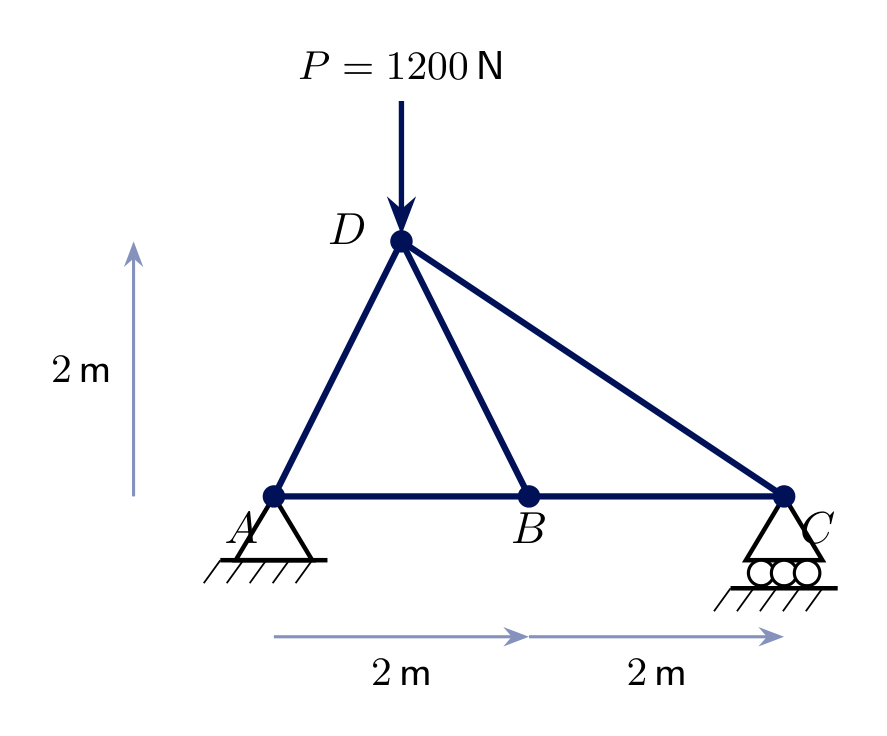
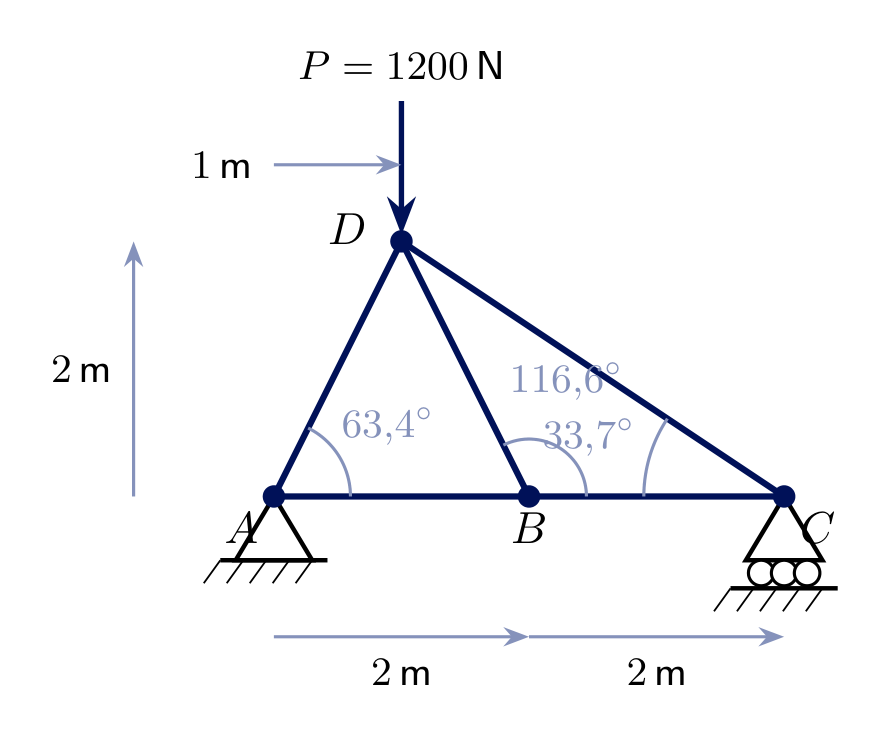
update pcitures

diff --git a/Engineering_Mechanics/e_06/assets/em_s06_figs.tex b/Engineering_Mechanics/e_06/assets/em_s06_figs.tex
@@ -74,6 +74,10 @@
 \node[below] at (6,-1.95) {\small $4\,\text{m}$};
 \draw[dim] (-1.1,0) -- (-1.1,2);
 \node[left] at (-1.15,1) {\small $2\,\text{m}$};
+\draw[accent, line width=0.7pt] ($(0,0)+(0:0.7)$) arc (0:45:0.7);
+\node[accent] at ($(0,0)+(22.5:1.15)$) {\small $45^\circ$};
+\draw[accent, line width=0.7pt] ($(4,0)+(135:0.7)$) arc (135:180:0.7);
+\node[accent] at ($(4,0)+(157.5:1.15)$) {\small $45^\circ$};
 \end{tikzpicture}
 
 % ================= Ex 6.1 FBD: right portion (D, E) =================
@@ -107,6 +111,10 @@
 \node[below] at (2,-1.95) {\small $4\,\text{m}$};
 \draw[dim] (4,-1.9) -- (8,-1.9);
 \node[below] at (6,-1.95) {\small $4\,\text{m}$};
+\draw[accent, line width=0.7pt] ($(0,0)+(0:0.7)$) arc (0:45:0.7);
+\node[accent] at ($(0,0)+(22.5:1.15)$) {\small $45^\circ$};
+\draw[accent, line width=0.7pt] ($(4,0)+(135:0.7)$) arc (135:180:0.7);
+\node[accent] at ($(4,0)+(157.5:1.15)$) {\small $45^\circ$};
 \end{tikzpicture}
 
 % ================= Ex 6.2 FBD: left portion (A, B) =================
@@ -192,6 +200,10 @@
 \node[above] at (3,3.05) {\small $2\,\text{m}$};
 \draw[dim] (4.9,0) -- (4.9,2);
 \node[right] at (4.95,1) {\small $2\,\text{m}$};
+\draw[accent, line width=0.7pt] ($(4,0)+(135:0.7)$) arc (135:180:0.7);
+\node[accent] at ($(4,0)+(157.5:1.15)$) {\small $45^\circ$};
+\draw[accent, line width=0.7pt] ($(0,0)+(0:0.7)$) arc (0:45:0.7);
+\node[accent] at ($(0,0)+(22.5:1.15)$) {\small $45^\circ$};
 \end{tikzpicture}
 
 % ================= Ex 6.4 check: Ritterschnitt, right portion (C, D, E) =================
@@ -248,6 +260,10 @@
 \foreach \x in {0,3,6,9} {\draw[dim] (\x,-2.6) -- (\x+3,-2.6); \node[below] at (\x+1.5,-2.65) {\small $3\,\text{m}$};}
 \draw[dim] (-1.3,0) -- (-1.3,4);
 \node[left] at (-1.35,2) {\small $4\,\text{m}$};
+\draw[accent, line width=0.7pt] ($(0,0)+(0:0.9)$) arc (0:53.13:0.9);
+\node[accent] at ($(0,0)+(26.565:1.9)$) {\small $\alpha = 53{,}1^\circ$};
+\draw[accent, line width=0.7pt] ($(6,0)+(126.87:0.9)$) arc (126.87:180:0.9);
+\node[accent] at ($(6,0)+(153.435:1.35)$) {\small $\alpha$};
 \end{tikzpicture}
 
 % ================= Ex 6.5 FBD: left portion (A, B, F), cut in panel B-C =================

diff --git a/Engineering_Mechanics/e_05/assets/em_s05_figs.tex b/Engineering_Mechanics/e_05/assets/em_s05_figs.tex
@@ -99,6 +99,10 @@
 \node[below] at (3,-1.35) {\small $2\,\text{m}$};
 \draw[dim] (-1.1,0) -- (-1.1,3);
 \node[left] at (-1.15,1.5) {\small $3\,\text{m}$};
+\draw[dim,-] ($(A)+(0:0.8)$) arc (0:56.31:0.8);
+\node[accent] at ($(A)+(28.155:1.25)$) {\small $56{,}3^\circ$};
+\draw[dim,-] ($(B)+(123.69:0.8)$) arc (123.69:180:0.8);
+\node[accent] at ($(B)+(151.845:1.25)$) {\small $56{,}3^\circ$};
 \end{tikzpicture}
 
 % ================= Ex 5.1 joint B free body =================
@@ -148,6 +152,14 @@
 \node[below] at (3,-1.15) {\small $2\,\text{m}$};
 \draw[dim] (-1.1,0) -- (-1.1,2);
 \node[left] at (-1.15,1) {\small $2\,\text{m}$};
+\draw[dim] (0,2.6) -- (1,2.6);
+\node[left] at (-0.05,2.6) {\small $1\,\text{m}$};
+\draw[dim,-] ($(A)+(0:0.6)$) arc (0:63.43:0.6);
+\node[accent] at ($(A)+(31.715:1.05)$) {\small $63{,}4^\circ$};
+\draw[dim,-] ($(B)+(0:0.45)$) arc (0:116.57:0.45);
+\node[accent] at ($(B)+(72:0.95)$) {\small $116{,}6^\circ$};
+\draw[dim,-] ($(C)+(146.31:1.1)$) arc (146.31:180:1.1);
+\node[accent] at ($(C)+(163.155:1.6)$) {\small $33{,}7^\circ$};
 \end{tikzpicture}
 
 % ================= Ex 5.2 solved: forces annotated on members =================
@@ -189,6 +201,8 @@
 \node[below] at (2,-1.15) {\small $4\,\text{m}$};
 \draw[dim] (-1.1,0) -- (-1.1,3);
 \node[left] at (-1.15,1.5) {\small $3\,\text{m}$};
+\draw[dim,-] ($(B)+(143.13:1.0)$) arc (143.13:180:1.0);
+\node[accent] at ($(B)+(161.565:1.45)$) {\small $36{,}9^\circ$};
 \end{tikzpicture}
 
 % ================= Ex 5.3 solved: forces annotated on members =================

diff --git a/Engineering_Mechanics/e_05/index.md b/Engineering_Mechanics/e_05/index.md
@@ -128,7 +128,7 @@ Spotting these *before* solving saves work - but when in doubt, the joint equati
 # Exercise 5.1
 ## Simple triangular truss
 
-Truss $ABC$: **pin** at $A$, **roller** at $B$, apex $C$ above the midpoint. Base $4\ \text{m}$, height $3\ \text{m}$. A vertical load $P=1000\ \text{N}$ acts at $C$.
+Truss $ABC$: **pin** at $A$, **roller** at $B$, apex $C$ above the midpoint. Base $4\ \text{m}$, height $3\ \text{m}$; both inclined members make $\theta = 56.3^\circ$ with the horizontal. A vertical load $P=1000\ \text{N}$ acts at $C$.
 
 **Find** the support reactions and all member forces $S_{AB}$, $S_{AC}$, $S_{BC}$.
 
@@ -143,7 +143,7 @@ By symmetry, or formally:
 $$\sum M_A = B_y\cdot4 - P\cdot2=0 \ \Rightarrow\ \boxed{B_y=500\ \text{N}}$$
 $$\sum F_y = A_y+B_y-P=0 \ \Rightarrow\ \boxed{A_y=500\ \text{N}} \qquad \boxed{A_x=0}$$
 
-Member $BC$ makes angle $\theta$ with the horizontal: $\tan\theta = 3/2 \Rightarrow \sin\theta=0.8321,\ \cos\theta=0.5547$ (member $AC$, by symmetry, has the same angle on the other side).
+Both inclined members make $\theta = 56.3^\circ$ with the horizontal (given): $\sin\theta=0.8321,\ \cos\theta=0.5547$.
 
 ---
 
@@ -173,7 +173,7 @@ Matches $S_{BC}$ by symmetry - the bottom chord $AB$ is in **tension**, both inc
 # Exercise 5.2
 ## Two-triangle truss, off-centre load
 
-Truss $A$–$B$–$C$–$D$: **pin** at $A$, **roller** at $C$, bottom chord $AB=BC=2\ \text{m}$, apex $D$ at height $2\ \text{m}$ above $A$ (not above the centre). A vertical load $P=1200\ \text{N}$ acts at $D$.
+Truss $A$–$B$–$C$–$D$: **pin** at $A$, **roller** at $C$, bottom chord $AB=BC=2\ \text{m}$, apex $D$ at height $2\ \text{m}$, $1\ \text{m}$ to the right of $A$ (not above the centre). Angles with the horizontal: $AD$: $63.4^\circ$, $BD$: $116.6^\circ$ (measured from $BC$), $CD$: $33.7^\circ$. A vertical load $P=1200\ \text{N}$ acts at $D$.
 
 **Find** all 5 member forces.
 
@@ -185,7 +185,7 @@ Truss $A$–$B$–$C$–$D$: **pin** at $A$, **roller** at $C$, bottom chord $AB
 
 $$\sum M_A = C_y\cdot4 - P\cdot1=0 \ \Rightarrow\ \boxed{C_y=300\ \text{N}}, \qquad \boxed{A_y=900\ \text{N}}, \qquad \boxed{A_x=0}$$
 
-At joint $A$ ($AD$ at $\tan^{-1}(2/1)=63.4^\circ$, $\sin=0.8944,\ \cos=0.4472$):
+At joint $A$ ($AD$ at $63.4^\circ$: $\sin=0.8944,\ \cos=0.4472$):
 
 $$\sum F_y = A_y + S_{AD}\sin63.4^\circ = 0 \ \Rightarrow\ S_{AD}\approx\boxed{-1006.2\ \text{N}\;(\text{C})}$$
 $$\sum F_x = S_{AB} + S_{AD}\cos63.4^\circ = 0 \ \Rightarrow\ S_{AB}\approx\boxed{450.0\ \text{N}\;(\text{T})}$$
@@ -194,7 +194,7 @@ $$\sum F_x = S_{AB} + S_{AD}\cos63.4^\circ = 0 \ \Rightarrow\ S_{AB}\approx\boxe
 
 ## Solution 5.2 - joint C and joint D
 
-At joint $C$ ($CD$ at $\tan^{-1}(2/3)=33.7^\circ$, $\sin=0.5547,\ \cos=0.8321$), same procedure:
+At joint $C$ ($CD$ at $33.7^\circ$: $\sin=0.5547,\ \cos=0.8321$), same procedure:
 
 $$S_{CD}\approx-540.8\ \text{N}\;(\text{C}), \qquad S_{CB}\approx450.0\ \text{N}\;(\text{T})$$
 
@@ -207,7 +207,7 @@ Joint $D$ now has only **one** unknown left, $S_{BD}$. Substituting the known $S
 # Exercise 5.3
 ## Triangular truss with a horizontal joint load
 
-Truss $ABC$: **pin** at $A$, **roller** at $B$, $AB=4\ \text{m}$ (horizontal), $AC=3\ \text{m}$ (vertical, directly above $A$). A **horizontal** load $P=500\ \text{N}$ acts at $C$.
+Truss $ABC$: **pin** at $A$, **roller** at $B$, $AB=4\ \text{m}$ (horizontal), $AC=3\ \text{m}$ (vertical, directly above $A$), $BC$ at $36.9^\circ$ to the horizontal. A **horizontal** load $P=500\ \text{N}$ acts at $C$.
 
 **Find** the reactions and all member forces.
 
@@ -220,7 +220,7 @@ Truss $ABC$: **pin** at $A$, **roller** at $B$, $AB=4\ \text{m}$ (horizontal), $
 $$\sum M_A = B_y\cdot4 - P\cdot3=0 \ \Rightarrow\ \boxed{B_y=375\ \text{N}}$$
 $$\sum F_y = A_y+B_y=0 \ \Rightarrow\ \boxed{A_y=-375\ \text{N}} \qquad \sum F_x = A_x+P=0 \ \Rightarrow\ \boxed{A_x=-500\ \text{N}}$$
 
-Joint $B$ (3-4-5 triangle, $\sin=0.6,\cos=0.8$): $\sum F_y: B_y+S_{BC}\cdot0.6=0 \Rightarrow S_{BC}\approx\boxed{-625.0\ \text{N (C)}}$; then $S_{AB}\approx\boxed{500.0\ \text{N (T)}}$. Joint $A$ confirms $S_{AC}\approx\boxed{375.0\ \text{N (T)}}$.
+Joint $B$ ($BC$ at $36.9^\circ$: $\sin=0.6,\ \cos=0.8$): $\sum F_y: B_y+S_{BC}\cdot0.6=0 \Rightarrow S_{BC}\approx\boxed{-625.0\ \text{N (C)}}$; then $S_{AB}\approx\boxed{500.0\ \text{N (T)}}$. Joint $A$ confirms $S_{AC}\approx\boxed{375.0\ \text{N (T)}}$.
 
 ![bg right fit](./assets/em_s05_ex3_solved.png)
 

diff --git a/Engineering_Mechanics/e_06/index.md b/Engineering_Mechanics/e_06/index.md
@@ -290,7 +290,7 @@ $$A_y = -S_{AC}\sin45^\circ = 30\ \text{kN}$$
 
 <style scoped>section{font-size:24px;}</style>
 
-Pratt truss, 4 panels of $3\ \text{m}$, height $4\ \text{m}$ (diagonals: $\sin\alpha=0.8$, $\cos\alpha=0.6$). **Pin** at $A$, **roller** at $E$. Loads $30\ \text{kN}$ at $B$, $20\ \text{kN}$ at $C$, $10\ \text{kN}$ at $D$.
+Pratt truss, 4 panels of $3\ \text{m}$, height $4\ \text{m}$ (diagonals at $\alpha = 53.1^\circ$ to the horizontal: $\sin\alpha=0.8$, $\cos\alpha=0.6$). **Pin** at $A$, **roller** at $E$. Loads $30\ \text{kN}$ at $B$, $20\ \text{kN}$ at $C$, $10\ \text{kN}$ at $D$.
 
 **Find**
 a) the support reactions
